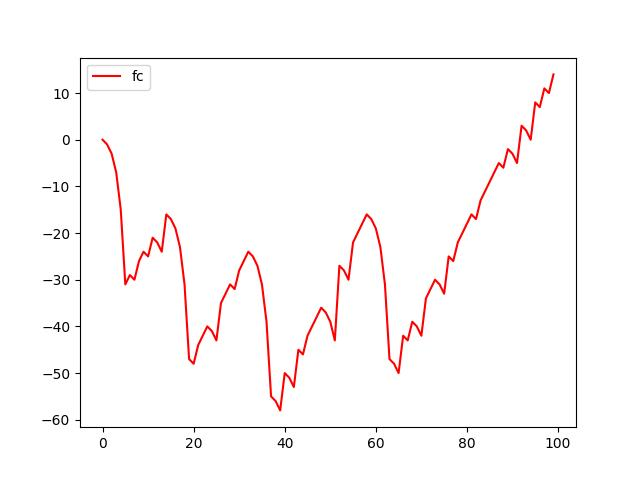
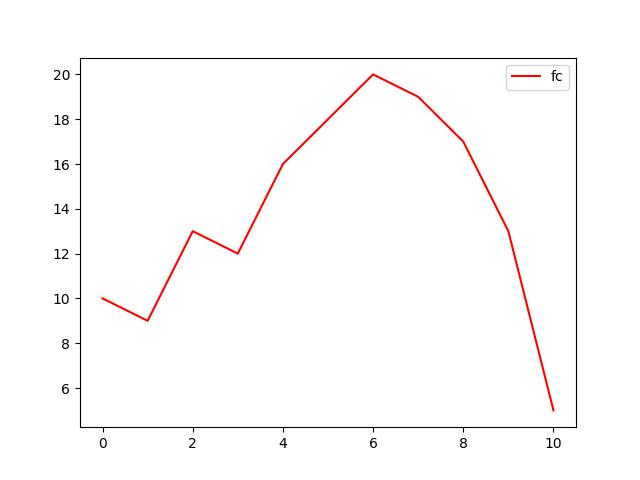
Optimizaciones y comentarios

diff --git a/TP1.2/sim_matematica_apuestas_ruleta.py b/TP1.2/sim_matematica_apuestas_ruleta.py
@@ -56,6 +56,15 @@ nro_elegido=int(sys.argv[6])
 estrategia=(sys.argv[8])
 tipo_capital=(sys.argv[10])
 
+def graph_flujo_caja(flujo_caja):
+    nro_tiradas_eje_x=[x for x in range(len(flujo_caja))]
+    #print(flujo_caja, nro_tiradas_eje_x)
+    f=plt.figure()
+    plt.plot(nro_tiradas_eje_x,flujo_caja,label="fc",color="red")
+    plt.legend()
+    f.savefig("prueba.jpg")
+
+
 def martingala_sig_paso(apuesta,paso,ganancias,salida):
     negro=[15,4,2,17,6,13,11,8,10,24,33,20,31,22,29,28,35,26]
     if salida in negro:
@@ -72,9 +81,6 @@ def martingala_sig_paso(apuesta,paso,ganancias,salida):
 
 def martingala(nro_tiradas,tipo_capital,banca):
     flujo_caja=[0 for x in range(nro_tiradas+1)]
-    nro_tiradas_eje_x=[0 for x in range(nro_tiradas+1)]
-    for index in range(nro_tiradas+1):
-        nro_tiradas_eje_x[index]=index
     paso_a_usar=1
     apuesta=1
     ejex=nro_tiradas
@@ -86,7 +92,8 @@ def martingala(nro_tiradas,tipo_capital,banca):
             salida=int(random.randint(0,36))
             paso_a_usar,ganancias,apuesta=martingala_sig_paso(apuesta,paso_a_usar,ganancias,salida) 
             flujo_caja[x+1]=ganancias
-            ejex=x
+            ejex=x+1
+            print(ejex)
 
     if tipo_capital=="i":
         flujo_caja[0]=0
@@ -96,10 +103,12 @@ def martingala(nro_tiradas,tipo_capital,banca):
             paso_a_usar,ganancias,apuesta=martingala_sig_paso(apuesta,paso_a_usar,ganancias,salida) 
             flujo_caja[x+1]=ganancias
     print(flujo_caja)
-    f=plt.figure()
-    plt.plot(nro_tiradas_eje_x[:ejex],flujo_caja[:ejex],label="fc",color="red")
-    plt.legend()
-    f.savefig("prueba.jpg")
+    graph_flujo_caja(flujo_caja[:(ejex+1)])
+
+
+
+#def dalambert(nro_tiradas, tipo_capital,banca):
+
 
 
 #Programa Principal#
